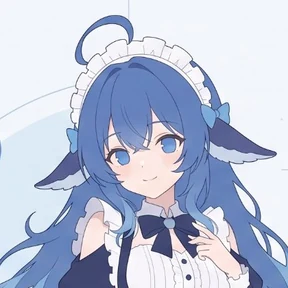
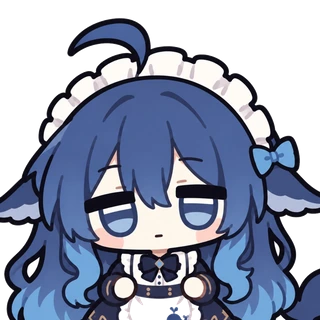
feat: 头像换成 Q 版鲸鱼娘
- 从 1536 的 Q 版立绘裁头部特写，连通域去掉白底（围裙等封闭白块保留）
- 320×320 透明 WebP，卡片 / 关于 / 404 三处共用

diff --git a/README.md b/README.md
@@ -81,7 +81,7 @@ Cloudflare Pages 连上这个仓库后会自动构建并上线。
 │   ├── hero-dark.webp       # 同一张图的夜间版，73KB
 │   ├── hero-2x.webp         # 141KB，高分屏（≥1.5 倍）用的 2880×1607
 │   ├── hero-dark-2x.webp    # 103KB，同上，夜间版
-│   ├── avatar.webp          # 从日间图裁的头像 288×288（15KB）
+│   ├── avatar.webp          # 头像：Q 版鲸鱼娘，透明底 320×320（31KB）
 │   └── og.jpg               # 社交卡片图 1200×630
 └── src/
     ├── content.config.ts    # 文章集合 schema
